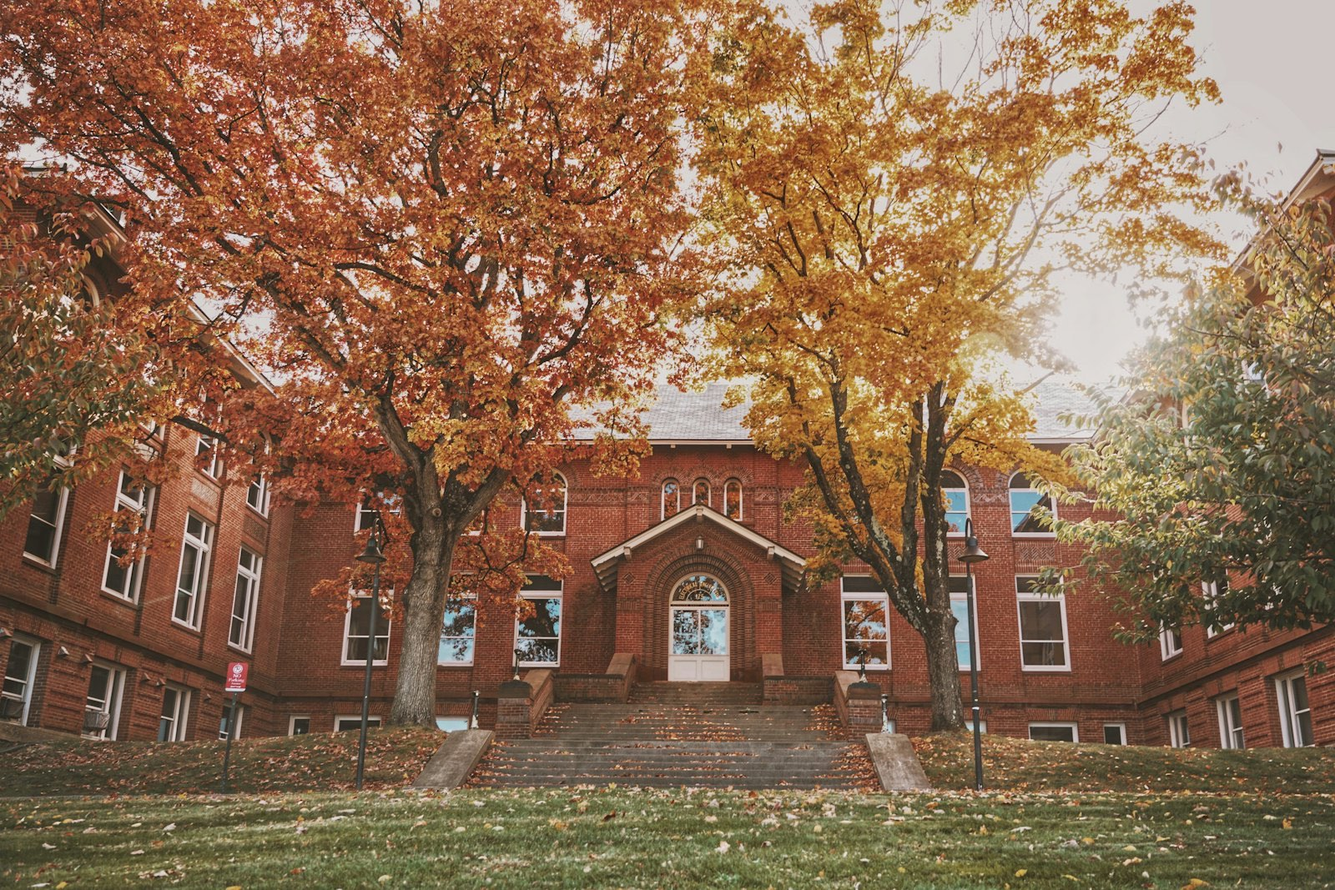
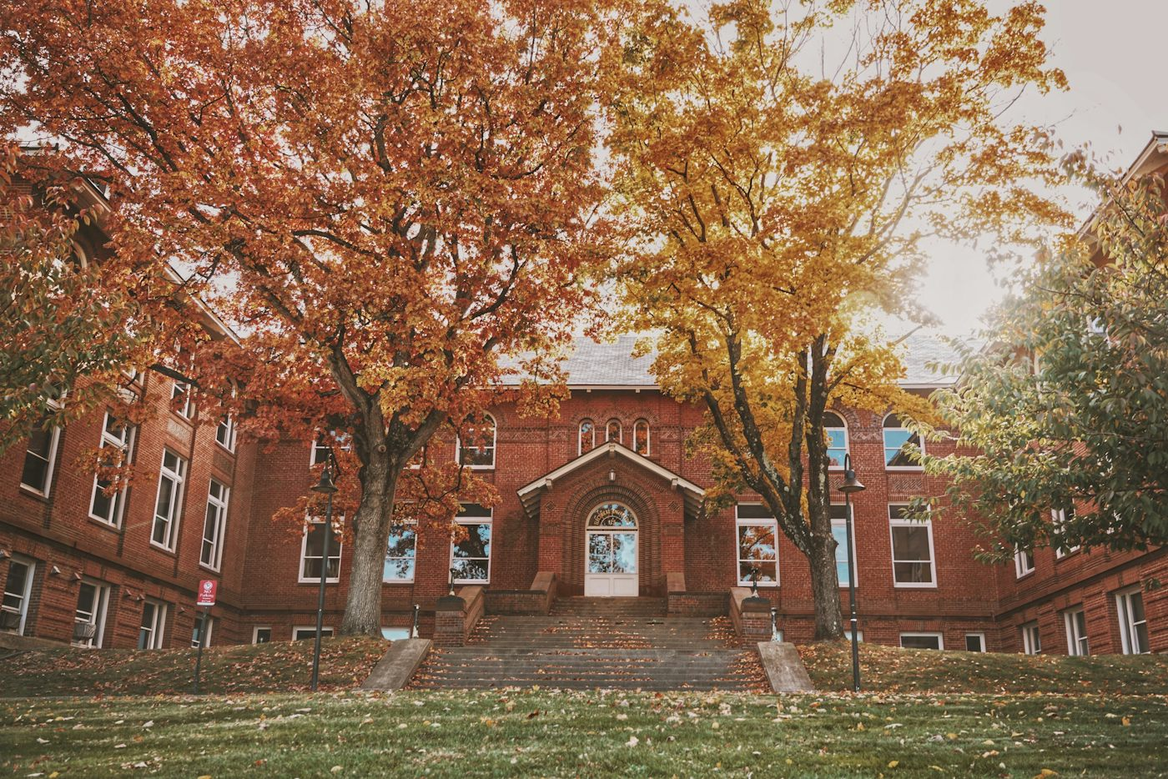
Add photo headers with temporary Unsplash photos
Eight page headers and the Why Hamilton sections now show a photo under a navy overlay.
Each photo lives in assets/photos/ under a fixed name so it can be swapped without code changes.

diff --git a/about/index.html b/about/index.html
@@ -1,5 +1,5 @@
 <!doctype html><html lang="en"><head><meta charset="utf-8"><meta name="viewport" content="width=device-width, initial-scale=1"><meta name="description" content="Hamilton Consulting Group's mission, membership, governance, Executive Board, and liberal-arts foundation."><title>About | Hamilton Consulting Group</title><link rel="icon" type="image/png" href="../assets/favicon.png"><link rel="stylesheet" href="../styles.css"></head><body data-page="about"><a class="skip-link" href="#main">Skip to content</a><header data-site-header></header><main id="main">
-<section class="page-hero"><div class="container subpage-hero-grid"><div><p class="eyebrow light">About HCG</p><h1>People, membership, and purpose.</h1><p>HCG helps Hamilton students understand consulting and prepare for recruiting. Quill gives selected participants practical experience through client work.</p><nav class="page-intro-nav" aria-label="About sections"><a href="#mission">Mission</a><a href="#membership">Membership</a><a href="#governance">Governance</a><a href="#board">Executive Board</a><a href="#why-hamilton">Why Hamilton</a></nav></div><aside class="hero-detail hero-capabilities" aria-hidden="true"><span>Learn</span><span>Prepare</span><span>Practice</span></aside></div></section>
+<section class="page-hero has-photo"><img class="hero-photo" src="../assets/photos/about.jpg" alt=""><div class="container subpage-hero-grid"><div><p class="eyebrow light">About HCG</p><h1>People, membership, and purpose.</h1><p>HCG helps Hamilton students understand consulting and prepare for recruiting. Quill gives selected participants practical experience through client work.</p><nav class="page-intro-nav" aria-label="About sections"><a href="#mission">Mission</a><a href="#membership">Membership</a><a href="#governance">Governance</a><a href="#board">Executive Board</a><a href="#why-hamilton">Why Hamilton</a></nav></div><aside class="hero-detail hero-capabilities" aria-hidden="true"><span>Learn</span><span>Prepare</span><span>Practice</span></aside></div></section>
 <section class="section anchor-target" id="mission"><div class="container split-feature"><div><p class="eyebrow">Mission &amp; model</p><h2>One organization, three connected pillars.</h2></div><div><p>Industry Knowledge introduces students to consulting, firms, industries, and client work. Recruiting &amp; Case Preparation builds practical readiness for applications and interviews. Quill is HCG’s student-operated applied consulting practice.</p><p class="serif statement-inline">The Group teaches consulting; Quill practices consulting.</p></div></div></section>
 <section class="section anchor-target" id="membership"><div class="container"><p class="eyebrow">Membership</p><h2 class="section-title">Different ways to participate.</h2><div class="membership-grid"><article class="membership-card"><h3>General Membership</h3><p>Open to interested Hamilton students, with no attendance obligation. Students can attend open programming without applying for leadership.</p><a class="text-link" href="../contact/index.html#general">Join general programming</a></article><article class="membership-card"><h3>Active Membership</h3><p>Earned by participating in two of three designated core events in a semester. The Group Managing Partner may recognize an equivalent contribution under the mandate.</p></article><article class="membership-card"><h3>Partnership and officers</h3><p>Partners own portfolios and serve on the Executive Board alongside designated officers. These are leadership roles, not a prerequisite for general participation.</p><a class="text-link" href="../apply/index.html#partnership">Partnership application</a></article><article class="membership-card featured"><h3>Quill</h3><p>Project participation is selective and separate from membership or leadership status. No HCG title guarantees staffing on a client engagement.</p><a class="text-link" href="../quill/get-involved/index.html">How Quill participation works</a></article></div></div></section>
 <section class="section anchor-target" id="governance"><div class="container split-feature"><div><p class="eyebrow">Governance</p><h2>Clear ownership, shared responsibility.</h2></div><div><p>The Executive Board governs HCG. Partners lead defined portfolios, while officers support the Group’s operations, finances, and communications. Quill teams operate within HCG but use project-specific leadership, staffing, confidentiality, and professional standards.</p><p>Membership status, board leadership, and Quill project roles are related but distinct.</p></div></div></section>
@@ -14,5 +14,5 @@
 <article class="board-card"><h3>Oliver Plese ’28</h3><span class="role">Communications &amp; Outreach</span><span class="location">Chicago</span></article>
 <article class="board-card"><h3>Ryan Coyle ’29</h3><span class="role">Communications &amp; Outreach</span><span class="location">Boston</span></article>
 </div></div></section>
-<section class="section blue-section anchor-target" id="why-hamilton"><div class="container split-feature"><div><p class="eyebrow">Why Hamilton</p><h2>Hamilton’s liberal arts education builds habits students can apply in consulting.</h2></div><div><p>Seminars train students to listen, ask better questions, and discuss competing interpretations. Writing-intensive courses demand clear arguments supported by evidence. Quantitative and qualitative work help students test a problem from more than one angle.</p><p>The open curriculum encourages students to connect ideas across disciplines. Campus leadership, athletics, clubs, and group projects add practice in ownership, teamwork, and direct communication.</p><div class="contact-links"><a class="button light" href="../quill/skills/index.html">The skills you build through client work</a><a class="text-link" href="../industry/index.html">Understand consulting</a></div></div></div></section>
+<section class="section blue-section anchor-target has-photo" id="why-hamilton"><img class="hero-photo" src="../assets/photos/why-hamilton.jpg" alt=""><div class="container split-feature"><div><p class="eyebrow">Why Hamilton</p><h2>Hamilton’s liberal arts education builds habits students can apply in consulting.</h2></div><div><p>Seminars train students to listen, ask better questions, and discuss competing interpretations. Writing-intensive courses demand clear arguments supported by evidence. Quantitative and qualitative work help students test a problem from more than one angle.</p><p>The open curriculum encourages students to connect ideas across disciplines. Campus leadership, athletics, clubs, and group projects add practice in ownership, teamwork, and direct communication.</p><div class="contact-links"><a class="button light" href="../quill/skills/index.html">The skills you build through client work</a><a class="text-link" href="../industry/index.html">Understand consulting</a></div></div></div></section>
 </main><footer data-site-footer></footer><script src="../resources.js"></script><script src="../script.js"></script></body></html>

diff --git a/index.html b/index.html
@@ -1,10 +1,10 @@
 <!doctype html><html lang="en"><head><meta charset="utf-8"><meta name="viewport" content="width=device-width, initial-scale=1"><meta name="description" content="Hamilton Consulting Group helps students understand consulting, prepare for recruiting, and gain practical experience through Quill."><title>Hamilton Consulting Group</title><link rel="icon" type="image/png" href="assets/favicon.png"><link rel="stylesheet" href="styles.css"></head>
 <body data-page="home"><a class="skip-link" href="#main">Skip to content</a><header data-site-header></header><main id="main">
-<section class="hero home-hero"><div class="container hero-grid"><div class="hero-copy"><div class="buff-rule"></div><p class="eyebrow light">Hamilton Consulting Group</p><h1>Learn the work. Prepare for it. Practice it.</h1><p>HCG helps Hamilton students understand consulting and prepare for recruiting. Quill gives selected participants practical experience through client work.</p><div class="hero-actions"><a class="button light" href="learn/index.html">Learn &amp; prepare</a><a class="text-link" href="apply/index.html">Join HCG</a></div></div><div class="hero-mark" aria-hidden="true"><img src="assets/hcg-quill-640.png" alt=""></div></div></section>
+<section class="hero home-hero has-photo"><img class="hero-photo" src="assets/photos/home-hero.jpg" alt=""><div class="container hero-grid"><div class="hero-copy"><div class="buff-rule"></div><p class="eyebrow light">Hamilton Consulting Group</p><h1>Learn the work. Prepare for it. Practice it.</h1><p>HCG helps Hamilton students understand consulting and prepare for recruiting. Quill gives selected participants practical experience through client work.</p><div class="hero-actions"><a class="button light" href="learn/index.html">Learn &amp; prepare</a><a class="text-link" href="apply/index.html">Join HCG</a></div></div><div class="hero-mark" aria-hidden="true"><img src="assets/hcg-quill-640.png" alt=""></div></div></section>
 
 <section class="section"><div class="container"><div class="section-head"><p class="eyebrow">How HCG works</p><div><h2>Three connected pillars.</h2><p class="intro">Students can learn what consultants do, prepare for recruiting and case interviews, and pursue selective client work through Quill.</p></div></div><div class="learning-map"><article><p class="eyebrow">Industry Knowledge</p><h2>Understand consulting.</h2><p>Learn how firms, industries, teams, and client engagements work.</p><a class="text-link" href="industry/index.html">Explore the profession</a></article><article class="paired-pillar"><p class="eyebrow">Recruiting &amp; Case Prep</p><h2>Prepare deliberately.</h2><p>Build practical habits for applications, networking, behavioral interviews, and case interviews.</p><a class="text-link" href="recruiting/index.html">Access preparation support</a></article><article><p class="eyebrow">Pro Bono Work</p><h2>Practice through Quill.</h2><p>Selected students apply consulting methods to client questions through HCG’s student-operated practice.</p><a class="text-link" href="quill/index.html">See how Quill works</a></article></div><div class="about-statement"><p class="lead">The Group teaches consulting; Quill practices consulting.</p><div><p>Pro bono means the client work is provided at no charge. Quill participation is selective and separate from general HCG membership.</p></div></div></div></section>
 
-<section class="section blue-section"><div class="container split-feature"><div><p class="eyebrow">Why Hamilton</p><h2>Hamilton’s liberal arts education builds habits students can apply in consulting.</h2></div><div><p>Writing-intensive courses require students to make an argument and support it. Seminars develop careful listening and discussion. Quantitative and qualitative work teach students to test evidence from more than one angle.</p><p>Across classrooms, teams, clubs, and campus leadership, students learn to take ownership, collaborate, and communicate clearly—habits that matter when the question is ambiguous and the answer must be useful.</p><div class="contact-links"><a class="button light" href="about/index.html#why-hamilton">Why Hamilton</a><a class="text-link" href="quill/skills/index.html">Skills developed through client work</a></div></div></div></section>
+<section class="section blue-section has-photo"><img class="hero-photo" src="assets/photos/why-hamilton.jpg" alt=""><div class="container split-feature"><div><p class="eyebrow">Why Hamilton</p><h2>Hamilton’s liberal arts education builds habits students can apply in consulting.</h2></div><div><p>Writing-intensive courses require students to make an argument and support it. Seminars develop careful listening and discussion. Quantitative and qualitative work teach students to test evidence from more than one angle.</p><p>Across classrooms, teams, clubs, and campus leadership, students learn to take ownership, collaborate, and communicate clearly—habits that matter when the question is ambiguous and the answer must be useful.</p><div class="contact-links"><a class="button light" href="about/index.html#why-hamilton">Why Hamilton</a><a class="text-link" href="quill/skills/index.html">Skills developed through client work</a></div></div></div></section>
 
 <section class="results-home"><div class="container"><div class="results-heading"><div><p class="eyebrow">Hamilton in Consulting</p><h2>A documented alumni and member directory.</h2></div><a class="text-link" href="outcomes/index.html">Explore the directory</a></div><div class="results-strip"><article><strong>42</strong><span>documented Hamilton alumni and members across four firms</span></article><article><strong>4</strong><span>firms represented: McKinsey, BCG, Bain, and L.E.K.</span></article><article><strong>MBB</strong><span>Hamilton alumni appear across McKinsey, BCG, and Bain</span></article></div><p class="fine-print">Directory counts describe the supplied Hamilton career directory. They do not establish that HCG caused any placement.</p></div></section>
 

diff --git a/apply/index.html b/apply/index.html
@@ -1,5 +1,5 @@
 <!doctype html><html lang="en"><head><meta charset="utf-8"><meta name="viewport" content="width=device-width, initial-scale=1"><meta name="description" content="Join Hamilton Consulting Group through open programming, Active Membership, Partnership, or selective Quill project work."><title>Join HCG | Hamilton Consulting Group</title><link rel="icon" type="image/png" href="../assets/favicon.png"><link rel="stylesheet" href="../styles.css"></head><body data-page="apply"><a class="skip-link" href="#main">Skip to content</a><header data-site-header></header><main id="main">
-<section class="apply-hero"><div class="container apply-hero-grid"><div><p class="eyebrow light">Join HCG</p><h1>Start with open programming.</h1><p>General Membership is open to interested Hamilton students. You do not need to apply for Partnership to attend and learn with HCG.</p><div class="hero-actions"><a class="button light" href="../contact/index.html#general">Join general programming</a><a class="text-link" href="#paths">Compare participation paths</a></div></div><aside class="hero-detail hero-quill-mark" aria-hidden="true"><img src="../assets/hcg-quill-640.png" alt=""></aside></div></section>
+<section class="apply-hero has-photo"><img class="hero-photo" src="../assets/photos/join.jpg" alt=""><div class="container apply-hero-grid"><div><p class="eyebrow light">Join HCG</p><h1>Start with open programming.</h1><p>General Membership is open to interested Hamilton students. You do not need to apply for Partnership to attend and learn with HCG.</p><div class="hero-actions"><a class="button light" href="../contact/index.html#general">Join general programming</a><a class="text-link" href="#paths">Compare participation paths</a></div></div><aside class="hero-detail hero-quill-mark" aria-hidden="true"><img src="../assets/hcg-quill-640.png" alt=""></aside></div></section>
 <section class="section anchor-target" id="paths"><div class="container"><p class="eyebrow">Ways to participate</p><h2 class="section-title">Choose the level that fits.</h2><div class="membership-grid"><article class="membership-card"><h3>General Membership</h3><p>Open to interested students, with no attendance obligation. Attend open events, use public resources, and receive programming updates.</p><a class="button" href="../contact/index.html#general">Join general programming</a></article><article class="membership-card"><h3>Active Membership</h3><p>Participate in two of three designated core events in a semester. The mandate also allows the Group Managing Partner to recognize an equivalent contribution.</p></article><article class="membership-card anchor-target" id="partnership"><h3>Partnership</h3><p>A leadership path involving Executive Board service and portfolio ownership. The existing application opens in Google Forms.</p><a class="button" href="https://forms.gle/L6PbRgAhz2x7ijzN7" target="_blank" rel="noopener noreferrer">Open Partnership application</a></article><article class="membership-card featured"><h3>Quill</h3><p>Selective participation in client projects. Membership or leadership does not guarantee staffing; selection depends on project needs and the approved operating criteria.</p><a class="button light" href="../quill/get-involved/index.html">Explore Quill participation</a></article></div></div></section>
 <section class="section"><div class="container split-feature"><div><p class="eyebrow">Not sure where to begin?</p><h2>General programming is the simplest first step.</h2></div><div><p>Start by learning about consulting, attending confirmed programming, and using HCG’s preparation resources. You can consider Active Membership, Partnership, or Quill later.</p><div class="contact-links"><a class="button" href="../learn/index.html">Learn &amp; Prepare</a><a class="text-link" href="../events/index.html">Events</a><a class="text-link" href="../recruiting/index.html#support">Case support</a></div></div></div></section>
 </main><footer data-site-footer></footer><script src="../resources.js"></script><script src="../script.js"></script></body></html>

diff --git a/quill/work-with-us/index.html b/quill/work-with-us/index.html
@@ -1,5 +1,5 @@
 <!doctype html><html lang="en"><head><meta charset="utf-8"><meta name="viewport" content="width=device-width, initial-scale=1"><meta name="description" content="How organizations can discuss a potential pro bono client project with HCG Quill."><title>Work With Quill | Hamilton Consulting Group</title><link rel="icon" type="image/png" href="../../assets/favicon.png"><link rel="stylesheet" href="../../styles.css"></head><body data-page="quill-work-with-us"><a class="skip-link" href="#main">Skip to content</a><header data-site-header></header><main id="main">
-<section class="page-hero"><div class="container subpage-hero-grid"><div><p class="eyebrow light">Quill · Work With Us</p><h1>Research and analysis that can help your organization make a decision.</h1><p>Quill is a student-operated, pro bono advisory practice. A potential engagement begins with a focused question and an exploratory conversation.</p><div class="hero-actions"><a class="button light" href="../../contact/index.html#quill-client">Discuss a potential project</a><a class="text-link" href="../../quill/engagements/index.html">Selected client work</a></div></div><aside class="hero-detail hero-quill-mark" aria-hidden="true"><img src="../../assets/hcg-quill-640.png" alt=""></aside></div></section>
+<section class="page-hero has-photo"><img class="hero-photo" src="../../assets/photos/quill-work-with-us.jpg" alt=""><div class="container subpage-hero-grid"><div><p class="eyebrow light">Quill · Work With Us</p><h1>Research and analysis that can help your organization make a decision.</h1><p>Quill is a student-operated, pro bono advisory practice. A potential engagement begins with a focused question and an exploratory conversation.</p><div class="hero-actions"><a class="button light" href="../../contact/index.html#quill-client">Discuss a potential project</a><a class="text-link" href="../../quill/engagements/index.html">Selected client work</a></div></div><aside class="hero-detail hero-quill-mark" aria-hidden="true"><img src="../../assets/hcg-quill-640.png" alt=""></aside></div></section>
 <nav class="quill-section-nav" aria-label="Quill section"><div class="container"><a href="../../quill/index.html">Overview</a><a href="../../quill/get-involved/index.html">Get Involved</a><a href="../../quill/work-with-us/index.html" aria-current="page">Work With Us</a><a href="../../quill/skills/index.html">Skills &amp; Experience</a><a href="../../quill/engagements/index.html">Past Engagements</a></div></nav>
 <section class="section"><div class="container"><div class="section-head"><p class="eyebrow">Project fit</p><div><h2>A clear question and a workable scope.</h2><p class="intro">Quill considers whether a project can create educational value and useful analysis within the time, staffing, information, ethical, and confidentiality constraints of a student team.</p></div></div><div class="proof-list"><article><h3>Defined decision</h3><p>The organization can explain the question and how it expects to use the work.</p></article><article><h3>Feasible access</h3><p>The team can obtain the information reasonably required by the agreed scope.</p></article><article><h3>Active counterpart</h3><p>A designated contact can answer questions, review progress, and provide timely feedback.</p></article></div></div></section>
 <section class="section blue-section"><div class="container"><p class="eyebrow">How the process works</p><ol class="process-steps dark"><li><span>01</span><div><h3>Explore</h3><p>Discuss the organization, question, decision, and anticipated timing.</p></div></li><li><span>02</span><div><h3>Assess and scope</h3><p>Review feasibility, staffing, information needs, confidentiality, conflicts, and mutual fit.</p></div></li><li><span>03</span><div><h3>Research and analyze</h3><p>Gather agreed inputs, test interpretations, and review progress with the client.</p></div></li><li><span>04</span><div><h3>Present</h3><p>Share findings, limitations, and recommendations for the organization to consider.</p></div></li></ol></div></section>

diff --git a/quill/index.html b/quill/index.html
@@ -1,5 +1,5 @@
 <!doctype html><html lang="en"><head><meta charset="utf-8"><meta name="viewport" content="width=device-width, initial-scale=1"><meta name="description" content="Quill is HCG's student-operated applied consulting practice, providing selected students with client-work experience."><title>Quill | Hamilton Consulting Group</title><link rel="icon" type="image/png" href="../assets/favicon.png"><link rel="stylesheet" href="../styles.css"></head><body data-page="quill"><a class="skip-link" href="#main">Skip to content</a><header data-site-header></header><main id="main">
-<section class="page-hero"><div class="container subpage-hero-grid"><div><p class="eyebrow light">HCG Quill</p><h1>The Group teaches consulting; Quill practices consulting.</h1><p>Quill is HCG’s student-operated applied consulting practice. Selected students work on scoped, pro bono client engagements—projects provided at no charge.</p><div class="hero-actions"><a class="button light" href="../quill/get-involved/index.html">For students</a><a class="text-link" href="../quill/work-with-us/index.html">For organizations</a></div></div><aside class="hero-detail hero-quill-mark" aria-hidden="true"><img src="../assets/hcg-quill-640.png" alt=""></aside></div></section>
+<section class="page-hero has-photo"><img class="hero-photo" src="../assets/photos/quill.jpg" alt=""><div class="container subpage-hero-grid"><div><p class="eyebrow light">HCG Quill</p><h1>The Group teaches consulting; Quill practices consulting.</h1><p>Quill is HCG’s student-operated applied consulting practice. Selected students work on scoped, pro bono client engagements—projects provided at no charge.</p><div class="hero-actions"><a class="button light" href="../quill/get-involved/index.html">For students</a><a class="text-link" href="../quill/work-with-us/index.html">For organizations</a></div></div><aside class="hero-detail hero-quill-mark" aria-hidden="true"><img src="../assets/hcg-quill-640.png" alt=""></aside></div></section>
 <nav class="quill-section-nav" aria-label="Quill section"><div class="container"><a href="../quill/index.html" aria-current="page">Overview</a><a href="../quill/get-involved/index.html">Get Involved</a><a href="../quill/work-with-us/index.html">Work With Us</a><a href="../quill/skills/index.html">Skills &amp; Experience</a><a href="../quill/engagements/index.html">Past Engagements</a></div></nav>
 <section class="section"><div class="container"><p class="eyebrow">Two clear paths</p><h2 class="section-title">Participate or discuss a project.</h2><div class="next-steps"><article class="next-step"><h3>Students</h3><p>Learn about responsibilities, weekly meetings, individual work, selective staffing, and the current interest process.</p><a class="button" href="../quill/get-involved/index.html">Explore student participation</a></article><article class="next-step"><h3>Organizations</h3><p>See the kinds of questions Quill may support, how a project is assessed, and how to begin an exploratory conversation.</p><a class="button" href="../quill/work-with-us/index.html">Discuss a potential project</a></article></div></div></section>
 <section class="section blue-section"><div class="container split-feature"><div><p class="eyebrow">Annual cycle</p><h2>Prepare in the fall. Deliver in the spring.</h2></div><div><div class="proof-list dark"><article><h3>Fall</h3><p>Source and evaluate potential clients, define a feasible scope and timeline, identify information needs, prepare project documents, and assemble the team.</p></article><article><h3>Spring</h3><p>Conduct research and analysis, communicate with the client, review work as a team, develop recommendations, and close the engagement.</p></article></div></div></div></section>

diff --git a/industry/index.html b/industry/index.html
@@ -1,5 +1,5 @@
 <!doctype html><html lang="en"><head><meta charset="utf-8"><meta name="viewport" content="width=device-width, initial-scale=1"><meta name="description" content="A beginner-friendly introduction to consulting, client engagements, firms, practice areas, industries, and career paths."><title>Industry Knowledge | Hamilton Consulting Group</title><link rel="icon" type="image/png" href="../assets/favicon.png"><link rel="stylesheet" href="../styles.css"></head><body data-page="industry"><a class="skip-link" href="#main">Skip to content</a><header data-site-header></header><main id="main">
-<section class="page-hero"><div class="container subpage-hero-grid"><div><p class="eyebrow light">Industry Knowledge</p><h1>What consultants do—and where the work can lead.</h1><p>A beginner-friendly guide to consulting projects, firms, industries, and career paths.</p><nav class="page-intro-nav" aria-label="Industry sections"><a href="#consulting">Consulting</a><a href="#firms">Firms &amp; careers</a><a href="#industries">Industries</a><a href="#perspectives">Perspectives</a><a href="#materials">Materials</a></nav></div><aside class="hero-detail hero-capabilities" aria-hidden="true"><span>Problems</span><span>Evidence</span><span>Advice</span></aside></div></section>
+<section class="page-hero has-photo"><img class="hero-photo" src="../assets/photos/industry.jpg" alt=""><div class="container subpage-hero-grid"><div><p class="eyebrow light">Industry Knowledge</p><h1>What consultants do—and where the work can lead.</h1><p>A beginner-friendly guide to consulting projects, firms, industries, and career paths.</p><nav class="page-intro-nav" aria-label="Industry sections"><a href="#consulting">Consulting</a><a href="#firms">Firms &amp; careers</a><a href="#industries">Industries</a><a href="#perspectives">Perspectives</a><a href="#materials">Materials</a></nav></div><aside class="hero-detail hero-capabilities" aria-hidden="true"><span>Problems</span><span>Evidence</span><span>Advice</span></aside></div></section>
 <section class="section-sm"><div class="container">
 <div class="topic-row anchor-target" id="consulting"><div><p class="eyebrow">Understanding consulting</p><h2>How a client engagement works</h2></div><div class="topic-content"><p>Management consultants are external advisors who help organizations understand difficult questions and consider possible actions. An engagement is a client project with a defined question, scope, timeline, team, and set of deliverables.</p><p>Teams clarify the question, break it into manageable parts, gather and analyze evidence, discuss findings with the client, and present recommendations. Consultants advise; the client remains responsible for decisions and implementation.</p></div></div>
 <div class="topic-row anchor-target" id="firms"><div><p class="eyebrow">Firms &amp; careers</p><h2>Different firms organize the work differently</h2></div><div class="topic-content"><p>Broad professional-services firms, strategy firms, specialist boutiques, and mission-focused organizations can differ in their clients, project mix, office model, staffing, and career paths. Practice areas may focus on a function such as operations or a sector such as healthcare.</p><p>Entry roles may be generalist or specialist. Experience can lead to firm leadership, corporate strategy, investing, startups, public service, graduate study, and other paths.</p><div class="topic-links"><a class="text-link" href="../recruiting/index.html#recruiting">Move from firm research to recruiting</a><a class="text-link" href="../outcomes/index.html">Explore Hamilton in Consulting</a></div></div></div>

diff --git a/recruiting/index.html b/recruiting/index.html
@@ -1,5 +1,5 @@
 <!doctype html><html lang="en"><head><meta charset="utf-8"><meta name="viewport" content="width=device-width, initial-scale=1"><meta name="description" content="Practical recruiting and case-preparation support for Hamilton students pursuing consulting."><title>Recruiting &amp; Case Preparation | Hamilton Consulting Group</title><link rel="icon" type="image/png" href="../assets/favicon.png"><link rel="stylesheet" href="../styles.css"></head><body data-page="recruiting"><a class="skip-link" href="#main">Skip to content</a><header data-site-header></header><main id="main">
-<section class="page-hero"><div class="container subpage-hero-grid"><div><p class="eyebrow light">Recruiting &amp; Case Preparation</p><h1>Practical support for the process.</h1><p>Plan recruiting, build professional readiness, and practice the structured problem solving used in case interviews.</p><nav class="page-intro-nav" aria-label="Recruiting sections"><a href="#support">Get support</a><a href="#recruiting">Recruiting</a><a href="#case-preparation">Case preparation</a><a href="#sequence">Preparation sequence</a><a href="#materials">Materials</a></nav></div><aside class="hero-detail hero-capabilities" aria-hidden="true"><span>Plan</span><span>Practice</span><span>Improve</span></aside></div></section>
+<section class="page-hero has-photo"><img class="hero-photo" src="../assets/photos/recruiting.jpg" alt=""><div class="container subpage-hero-grid"><div><p class="eyebrow light">Recruiting &amp; Case Preparation</p><h1>Practical support for the process.</h1><p>Plan recruiting, build professional readiness, and practice the structured problem solving used in case interviews.</p><nav class="page-intro-nav" aria-label="Recruiting sections"><a href="#support">Get support</a><a href="#recruiting">Recruiting</a><a href="#case-preparation">Case preparation</a><a href="#sequence">Preparation sequence</a><a href="#materials">Materials</a></nav></div><aside class="hero-detail hero-capabilities" aria-hidden="true"><span>Plan</span><span>Practice</span><span>Improve</span></aside></div></section>
 <section class="section anchor-target" id="support"><div class="container"><p class="eyebrow">Start here</p><h2 class="section-title">Office hours and case resources.</h2><p class="section-lead">These actions open a clear contact route. HCG will confirm the current format, contents, and access conditions directly.</p><div class="access-grid">
 <article class="access-card"><p class="eyebrow">Practice support</p><h3>Casing office hours</h3><p>Ask about the current office-hours format and support for a skill or case question.</p><a class="button" href="../contact/index.html#office-hours">Ask about office hours</a></article>
 <article class="access-card"><p class="eyebrow">HCG resource</p><h3>Case book</h3><p>Request access and ask HCG to confirm the current case-book contents and intended use.</p><a class="button" href="../contact/index.html#case-book">Request the case book</a></article>

diff --git a/events/index.html b/events/index.html
@@ -1,5 +1,5 @@
 <!doctype html><html lang="en"><head><meta charset="utf-8"><meta name="viewport" content="width=device-width, initial-scale=1"><meta name="description" content="Upcoming Hamilton Consulting Group programming and past sessions with available materials."><title>Events | Hamilton Consulting Group</title><link rel="icon" type="image/png" href="../assets/favicon.png"><link rel="stylesheet" href="../styles.css"></head><body data-page="events"><a class="skip-link" href="#main">Skip to content</a><header data-site-header></header><main id="main">
-<section class="page-hero"><div class="container subpage-hero-grid"><div><p class="eyebrow light">Events</p><h1>Upcoming programming and past sessions.</h1><p>Confirmed dates, locations, registration details, and materials will appear here.</p><nav class="page-intro-nav" aria-label="Event sections"><a href="#upcoming">Upcoming</a><a href="#past-events">Past sessions</a></nav></div><aside class="hero-detail hero-capabilities" aria-hidden="true"><span>Learn</span><span>Practice</span><span>Connect</span></aside></div></section>
+<section class="page-hero has-photo"><img class="hero-photo" src="../assets/photos/events.jpg" alt=""><div class="container subpage-hero-grid"><div><p class="eyebrow light">Events</p><h1>Upcoming programming and past sessions.</h1><p>Confirmed dates, locations, registration details, and materials will appear here.</p><nav class="page-intro-nav" aria-label="Event sections"><a href="#upcoming">Upcoming</a><a href="#past-events">Past sessions</a></nav></div><aside class="hero-detail hero-capabilities" aria-hidden="true"><span>Learn</span><span>Practice</span><span>Connect</span></aside></div></section>
 <section class="section anchor-target" id="upcoming"><div class="container"><p class="eyebrow">Upcoming</p><div class="status-panel open-status"><h2>No events are currently posted.</h2><p>HCG will add dates, locations, registration details, and any confirmed Active Membership designation when the schedule is available.</p><a class="button" href="../contact/index.html#events">Ask about future programming</a></div></div></section>
 <section class="section anchor-target" id="past-events"><div class="container"><p class="eyebrow">Past sessions</p><h2 class="section-title">Materials from previous programming.</h2><div class="past-events" data-past-event-list></div><div class="topic-links"><a class="text-link" href="../resources/index.html">Browse all resources</a><a class="text-link" href="../contact/index.html#archive">Ask about another session</a></div></div></section>
 </main><footer data-site-footer></footer><script src="../resources.js"></script><script src="../script.js"></script></body></html>

diff --git a/styles.css b/styles.css
@@ -452,6 +452,15 @@ input, select, textarea { width: 100%; min-height: 48px; padding: .7rem .8rem; b
 textarea { min-height: 140px; resize: vertical; }
 input:focus, select:focus, textarea:focus { border-color: var(--blue); outline: 3px solid rgba(6,47,135,.15); outline-offset: 0; }
 
+/* Photo headers: any hero or blue section with class "has-photo" and an <img class="hero-photo">.
+   Swap a photo by replacing the file in assets/photos/ with one of the same name. */
+.has-photo { position: relative; isolation: isolate; }
+.has-photo > .hero-photo { position: absolute; inset: 0; z-index: -2; width: 100%; height: 100%; max-width: none; object-fit: cover; object-position: center; }
+.has-photo::before { content: ""; position: absolute; inset: 0; z-index: -1; background: linear-gradient(100deg, rgba(2, 14, 50, .95) 0%, rgba(8, 36, 100, .88) 45%, rgba(6, 47, 135, .55) 100%); }
+.blue-section.has-photo::before { background: linear-gradient(100deg, rgba(2, 14, 50, .94) 0%, rgba(8, 36, 100, .9) 55%, rgba(6, 47, 135, .7) 100%); }
+.home-hero.has-photo .hero-mark { display: none; }
+.has-photo .hero-quill-mark img { opacity: .55; }
+
 @media (max-width: 1080px) {
   :root { --gutter: 2rem; }
   .nav-links { gap: .7rem; }
@@ -538,6 +547,7 @@ input:focus, select:focus, textarea:focus { border-color: var(--blue); outline: 
   .quill-section-nav .container { width: 100%; padding-left: var(--gutter); }
   .quill-section-nav a { padding: .8rem .85rem; }
   .anchor-target, .resource-card { scroll-margin-top: 140px; }
+  .has-photo::before, .blue-section.has-photo::before { background: rgba(2, 14, 50, .86); }
 }
 
 @media (prefers-reduced-motion: reduce) {

diff --git a/assets/photos/PHOTO-CREDITS.md b/assets/photos/PHOTO-CREDITS.md
@@ -1,0 +1,19 @@
+# Photo credits
+
+These are temporary stock photos from Unsplash (free to use under the Unsplash License; credit is appreciated but not required). Replace them with real HCG photos when available.
+
+**To swap a photo:** replace the file with a new JPG of the same name. Landscape photos around 1600px wide work best. No code changes needed.
+
+| File | Used on | Photographer | Source |
+|---|---|---|---|
+| home-hero.jpg | Homepage header | Campaign Creators | https://unsplash.com/photos/gMsnXqILjp4 |
+| why-hamilton.jpg | "Why Hamilton" sections (Home, About) | Cloris Ying | https://unsplash.com/photos/M9VhxlGuyRw |
+| about.jpg | About header | Christina @ wocintechchat.com | https://unsplash.com/photos/faEfWCdOKIg |
+| industry.jpg | Industry Knowledge header | Vitaly Gariev | https://unsplash.com/photos/LzBMjkvZfh8 |
+| recruiting.jpg | Recruiting & Case Prep header | Redd Francisco | https://unsplash.com/photos/PTRzqc_h1r4 |
+| events.jpg | Events header | Quilia | https://unsplash.com/photos/1-aA2Fadydc |
+| quill.jpg | Quill header | Kaleidico | https://unsplash.com/photos/26MJGnCM0Wc |
+| quill-work-with-us.jpg | Quill · Work With Us header | Walls.io | https://unsplash.com/photos/YeoKgwFl-Xo |
+| join.jpg | Join HCG header | Timur Shakerzianov | https://unsplash.com/photos/yCs7YTwEw2w |
+
+The "Why Hamilton" photo is a generic fall campus, not Hamilton. Swap it for a real Hamilton campus photo first.
